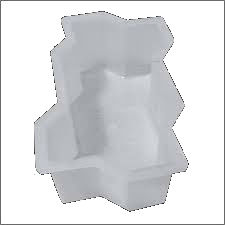
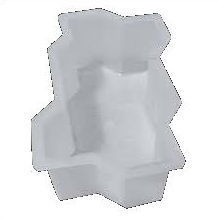
zig zag mould image changed

diff --git a/products/tab/plastic-moulds.html b/products/tab/plastic-moulds.html
@@ -56,7 +56,7 @@
                             <div class="col-md-4 col-xs-12 col-sm-6">
                                 <div class="service-item">
                                     <div class="service-thumb">
-                                        <img src="img/products/zig_zag_mould.png" alt="" height="275" width="360">
+                                        <img src="img/products/zig_zag_mould.jpg" alt="" height="275" width="360">
                                     </div>
                                     <div class="service-description">
                                         <a href="pipes.html"><h3>Interlocking Zig Zag Plastic Mould</h3></a>
